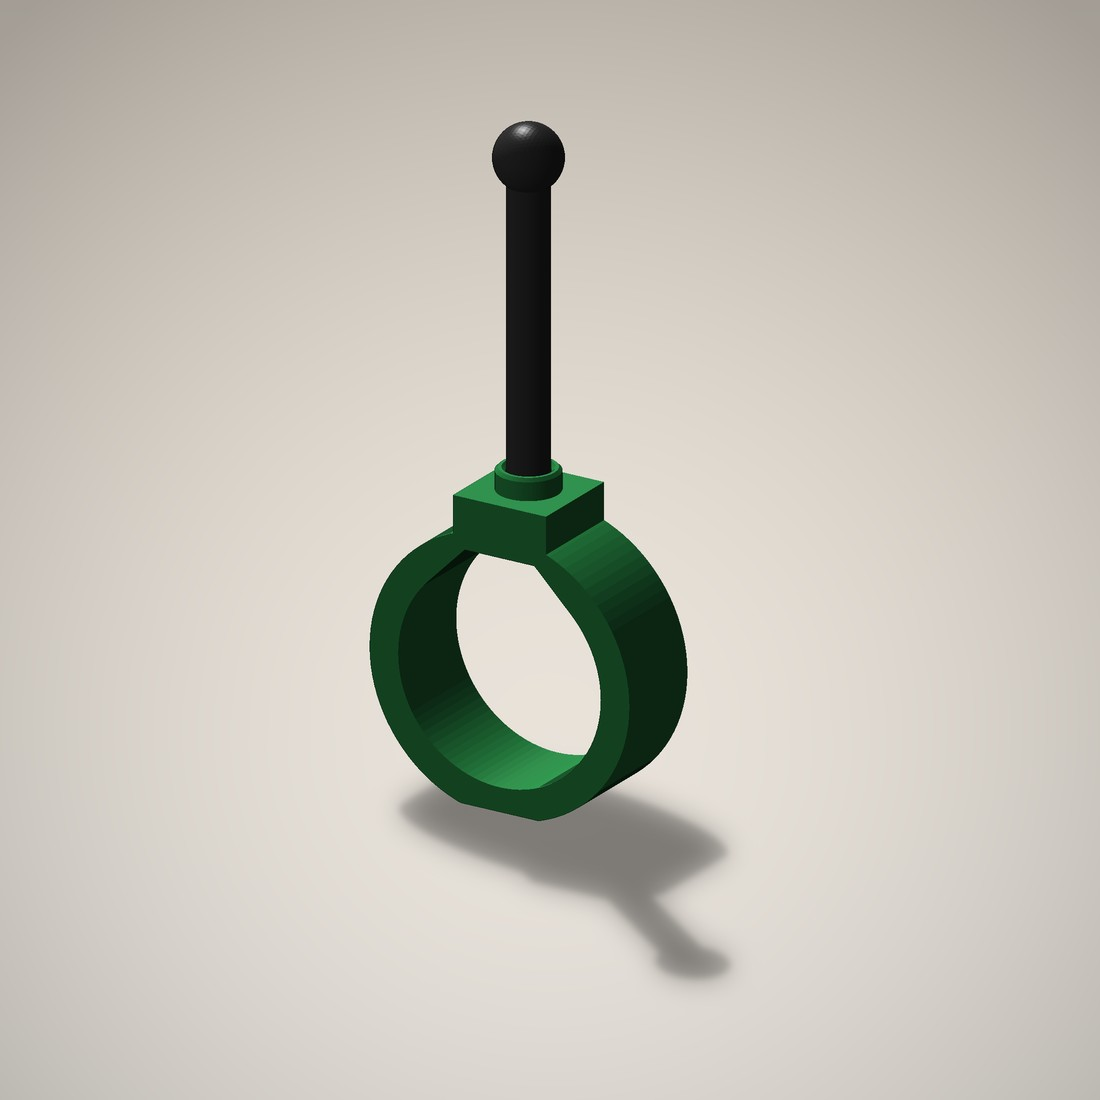
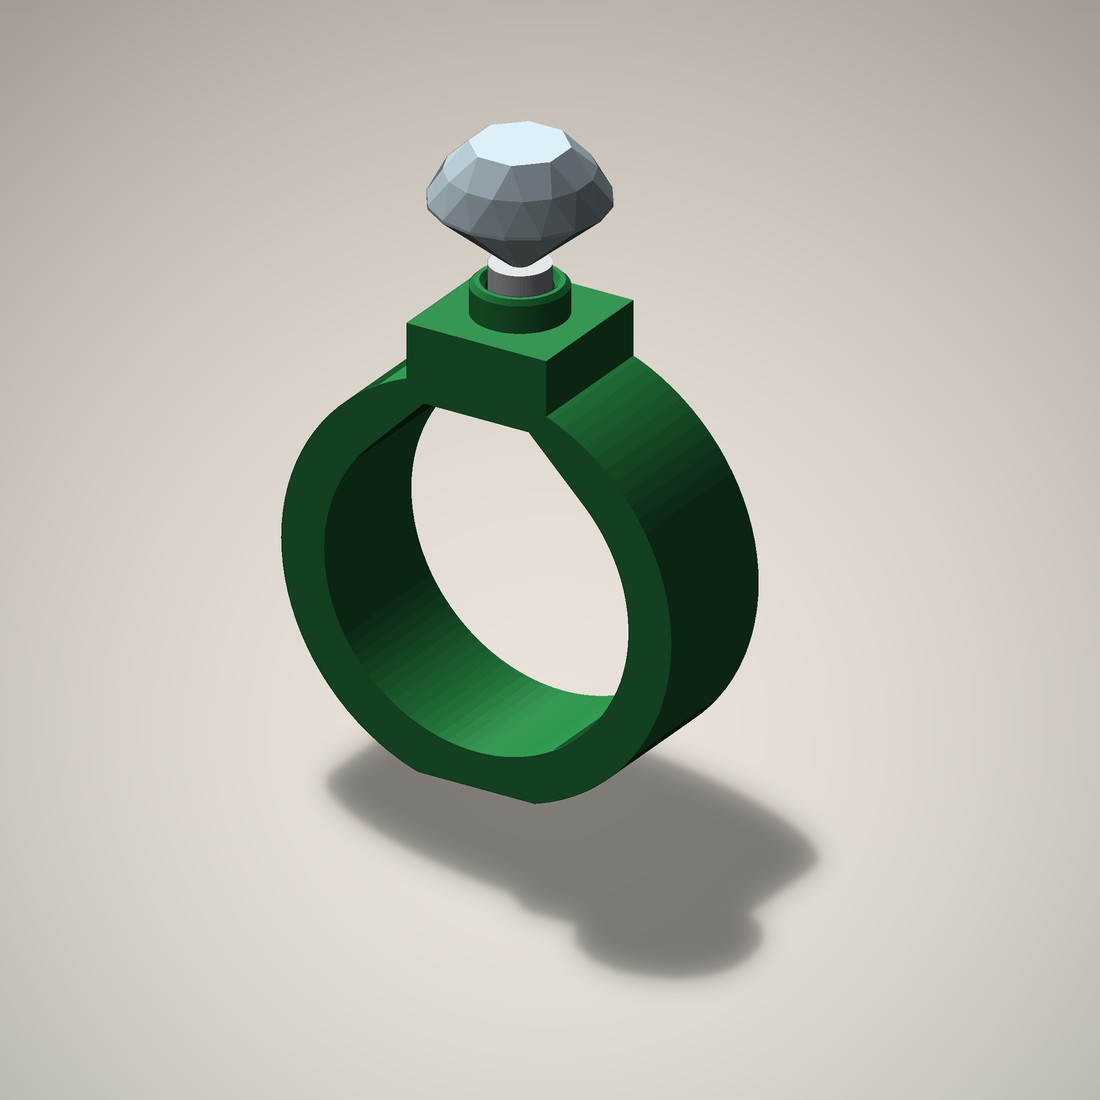
Noppen-Ring mit Loch: Shopbild mit eingestecktem Edelstein statt Stange
Claude-Session: https://claude.ai/code/session_018qFe73yLLU8oehHLNUqKHi

Changed region(s): [[0.2473, 0.0927, 0.7418, 0.8964]]

diff --git a/3d-druck/src/shop_renders_ringe.py b/3d-druck/src/shop_renders_ringe.py
@@ -55,6 +55,29 @@ def labels(im, texts):
     return im
 
 
+def diamond(stud_top, z_bot, d=9.0):
+    """Facettierter Edelstein (Brillantform) mit Stift, der in die hohle Noppe gesteckt ist."""
+    rg = d / 2
+    h_crown, h_pav, lift = 0.32 * d, 0.43 * d, 0.4
+    z_g = stud_top + lift + h_pav                     # Rundiste
+    pts = []
+    for k in range(8):                                # Tafel (Achteck)
+        a = 2 * np.pi * (k + 0.5) / 8
+        pts.append((0.55 * rg * np.cos(a), 0.55 * rg * np.sin(a), z_g + h_crown))
+    for k in range(16):                               # Krone-Facetten + Rundiste
+        a = 2 * np.pi * k / 16
+        pts.append((0.82 * rg * np.cos(a + np.pi / 16), 0.82 * rg * np.sin(a + np.pi / 16), z_g + 0.55 * h_crown))
+        pts.append((rg * np.cos(a), rg * np.sin(a), z_g + 0.08))
+        pts.append((rg * np.cos(a), rg * np.sin(a), z_g - 0.08))
+    for k in range(8):                                # Pavillon-Facetten
+        a = 2 * np.pi * (k + 0.5) / 8
+        pts.append((0.45 * rg * np.cos(a), 0.45 * rg * np.sin(a), z_g - 0.55 * h_pav))
+    pts.append((0, 0, z_g - h_pav))                   # Kalette (Spitze)
+    gem = Manifold.hull_points(pts)
+    peg = Manifold.cylinder(z_g - h_pav + 0.5 - z_bot, 1.55, 1.55, 48).translate((0, 0, z_bot))
+    return gem, peg
+
+
 def main():
     for v, (col, fn) in PRODUCTS.items():
         g = 0.45
@@ -74,10 +97,10 @@ def main():
             ro = ri + R.BAND
             z_top = (ro - R.FLAT) + ro + R.SOCKET_ABOVE
             z_bot = (ro - R.FLAT) + ro - R.BAR_DEPTH_INTO_RING
-            bar = Manifold.cylinder(28, 1.6, 1.6, 64).translate((0, 0, z_bot))
-            knob = Manifold.sphere(2.6, 64).translate((0, 0, z_bot + 28))
-            S.render([(tm(ring), col, g), (tm(bar), "#3A3A3A", 0.6), (tm(knob), "#3A3A3A", 0.6)],
-                     22, -58, fill=0.78).save(OUT / f"{fn}-4.jpg", quality=90)
+            stud_top = z_top + R.STUD_H
+            gem, peg = diamond(stud_top, z_bot)
+            S.render([(tm(ring), col, g), (tm(peg), "#E8ECEF", 0.9), (tm(gem), "#DDF3FF", 0.95)],
+                     26, -58, fill=0.78).save(OUT / f"{fn}-4.jpg", quality=90)
         print(v, "ok")
 
 
